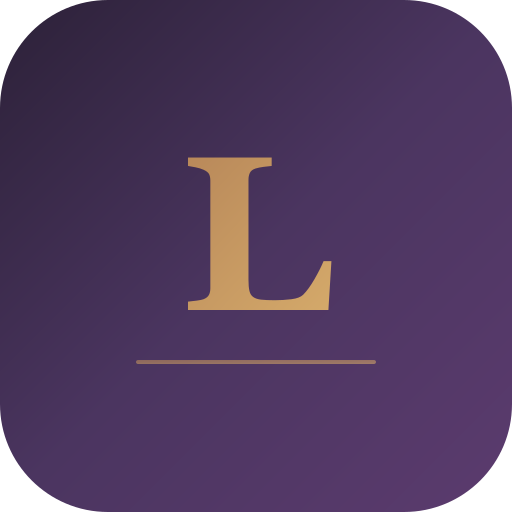
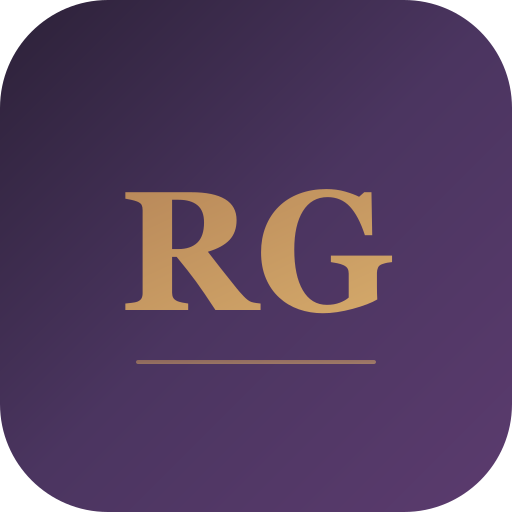
Rebrand from Luma to RG
Update app name, icons, sidebar logo, login page, booking footer,
privacy policy, manifest, and Capacitor config. Branch renamed to
Khalifa City.

Changed region(s): [[0.25, 0.2812, 0.7812, 0.625]]

diff --git a/src/app/privacy/page.tsx b/src/app/privacy/page.tsx
@@ -1,6 +1,6 @@
 import type { Metadata } from "next";
 
-export const metadata: Metadata = { title: "Privacy Policy — Luma" };
+export const metadata: Metadata = { title: "Privacy Policy — RG" };
 
 export default function PrivacyPolicy() {
   return (
@@ -13,7 +13,7 @@ export default function PrivacyPolicy() {
           <section>
             <h2 className="text-lg font-bold text-[#2c2138]">1. Introduction</h2>
             <p>
-              Luma (&ldquo;we&rdquo;, &ldquo;our&rdquo;, or &ldquo;us&rdquo;) operates the Luma salon management
+              RG (&ldquo;we&rdquo;, &ldquo;our&rdquo;, or &ldquo;us&rdquo;) operates the RG salon management
               application. This Privacy Policy explains how we collect, use, disclose, and safeguard your
               information when you use our mobile application and web platform.
             </p>
@@ -107,7 +107,7 @@ export default function PrivacyPolicy() {
         </div>
 
         <div className="mt-12 pt-6 border-t border-[#e9e6f2] text-center text-xs text-[#7a7590]">
-          Powered by <b>Luma</b> · Salon SaaS
+          Powered by <b>RG</b> · Salon SaaS
         </div>
       </div>
     </div>

diff --git a/src/app/(auth)/login/form.tsx b/src/app/(auth)/login/form.tsx
@@ -17,8 +17,8 @@ export default function LoginForm({ labels: L }: { labels: Labels }) {
     <div className="min-h-screen grid place-items-center p-4">
       <div className="card w-full max-w-sm p-8">
         <div className="flex items-center gap-3 mb-6">
-          <div className="w-10 h-10 rounded-xl bg-gradient-to-br from-brand to-teal-500 grid place-items-center text-white font-extrabold text-lg">L</div>
-          <div><b className="text-lg">Luma</b><div className="text-xs text-[#7a7590]">{L.salonManager}</div></div>
+          <div className="w-10 h-10 rounded-xl bg-gradient-to-br from-brand to-teal-500 grid place-items-center text-white font-extrabold text-lg">RG</div>
+          <div><b className="text-lg">RG</b><div className="text-xs text-[#7a7590]">{L.salonManager}</div></div>
         </div>
         <h1 className="text-xl font-bold mb-1">{L.welcome}</h1>
         <p className="text-sm text-[#7a7590] mb-4">{L.signinSub}</p>

diff --git a/src/app/(app)/layout.tsx b/src/app/(app)/layout.tsx
@@ -32,8 +32,8 @@ export default async function AppLayout({ children }: { children: React.ReactNod
     <div className="flex min-h-screen">
       <aside className="w-56 shrink-0 bg-brand-dark text-[#bdb6de] p-4 flex flex-col gap-1 sticky top-0 h-screen">
         <div className="flex items-center gap-3 px-2 pb-4 text-white">
-          <div className="w-9 h-9 rounded-xl bg-gradient-to-br from-brand to-teal-500 grid place-items-center font-extrabold">L</div>
-          <div><b>Luma</b><div className="text-[10px] text-[#bdb6de]">{s.orgName}</div></div>
+          <div className="w-9 h-9 rounded-xl bg-gradient-to-br from-brand to-teal-500 grid place-items-center font-extrabold text-sm">RG</div>
+          <div><b>RG</b><div className="text-[10px] text-[#bdb6de]">{s.orgName}</div></div>
         </div>
 
         <div className="pb-3 mb-1 border-b border-white/10 flex flex-col gap-2">

diff --git a/capacitor.config.ts b/capacitor.config.ts
@@ -1,18 +1,14 @@
 import type { CapacitorConfig } from "@capacitor/cli";
 
 const config: CapacitorConfig = {
-  appId: "com.luma.salon",
-  appName: "Luma",
+  appId: "com.rg.salon",
+  appName: "RG",
   webDir: "out",
   server: {
-    // In production, point to your deployed URL:
-    // url: "https://your-domain.com",
-    // For development, use the local dev server:
-    url: "http://localhost:3000",
-    cleartext: true,
+    url: "https://luma-salon.vercel.app",
   },
   ios: {
-    scheme: "Luma",
+    scheme: "RG",
     contentInset: "automatic",
     backgroundColor: "#2c2138",
   },

diff --git a/prisma/seed.ts b/prisma/seed.ts
@@ -14,7 +14,7 @@ async function main() {
   if (existing) { console.log("Demo org already seeded."); return; }
 
   const org = await db.org.create({ data: { name: "Luxury Harrods Beauty & Spa", slug: "luma", currency: "AED" } });
-  const branch = await db.branch.create({ data: { orgId: org.id, name: "Jumeirah" } });
+  const branch = await db.branch.create({ data: { orgId: org.id, name: "Khalifa City" } });
   await db.user.create({
     data: { orgId: org.id, email: "owner@luma.demo", name: "Shreif Fahmy", role: "OWNER", passwordHash: await bcrypt.hash("demo1234", 10) },
   });

diff --git a/src/app/layout.tsx b/src/app/layout.tsx
@@ -5,13 +5,13 @@ import Script from "next/script";
 import NativeInit from "./native-init";
 
 export const metadata: Metadata = {
-  title: "Luma — Salon SaaS",
+  title: "RG — Salon SaaS",
   description: "All-in-one salon management: bookings, POS, staff, and customer management",
   manifest: "/manifest.json",
   appleWebApp: {
     capable: true,
     statusBarStyle: "black-translucent",
-    title: "Luma",
+    title: "RG",
   },
   icons: {
     icon: [

diff --git a/src/app/book/[slug]/ui.tsx b/src/app/book/[slug]/ui.tsx
@@ -165,7 +165,7 @@ export default function BookingWizard(props: { slug: string; orgName: string; cu
           </div>
         )}
       </div>
-      <p className="text-center text-xs text-[#8a8296] mt-5">Powered by <b>Luma</b> · Salon SaaS</p>
+      <p className="text-center text-xs text-[#8a8296] mt-5">Powered by <b>RG</b> · Salon SaaS</p>
     </div>
   );
 }

diff --git a/src/lib/i18n.ts b/src/lib/i18n.ts
@@ -262,7 +262,7 @@ const en: Dict = {
   "auth.creating": "Creating…",
   "auth.salonManager": "Salon Manager",
   "auth.passwordMin": "Password (min 8 chars)",
-  "auth.orgPlaceholder": "e.g. Luma Beauty Lounge",
+  "auth.orgPlaceholder": "e.g. RG Beauty Lounge",
   "auth.namePlaceholder": "Full name",
 };
 
